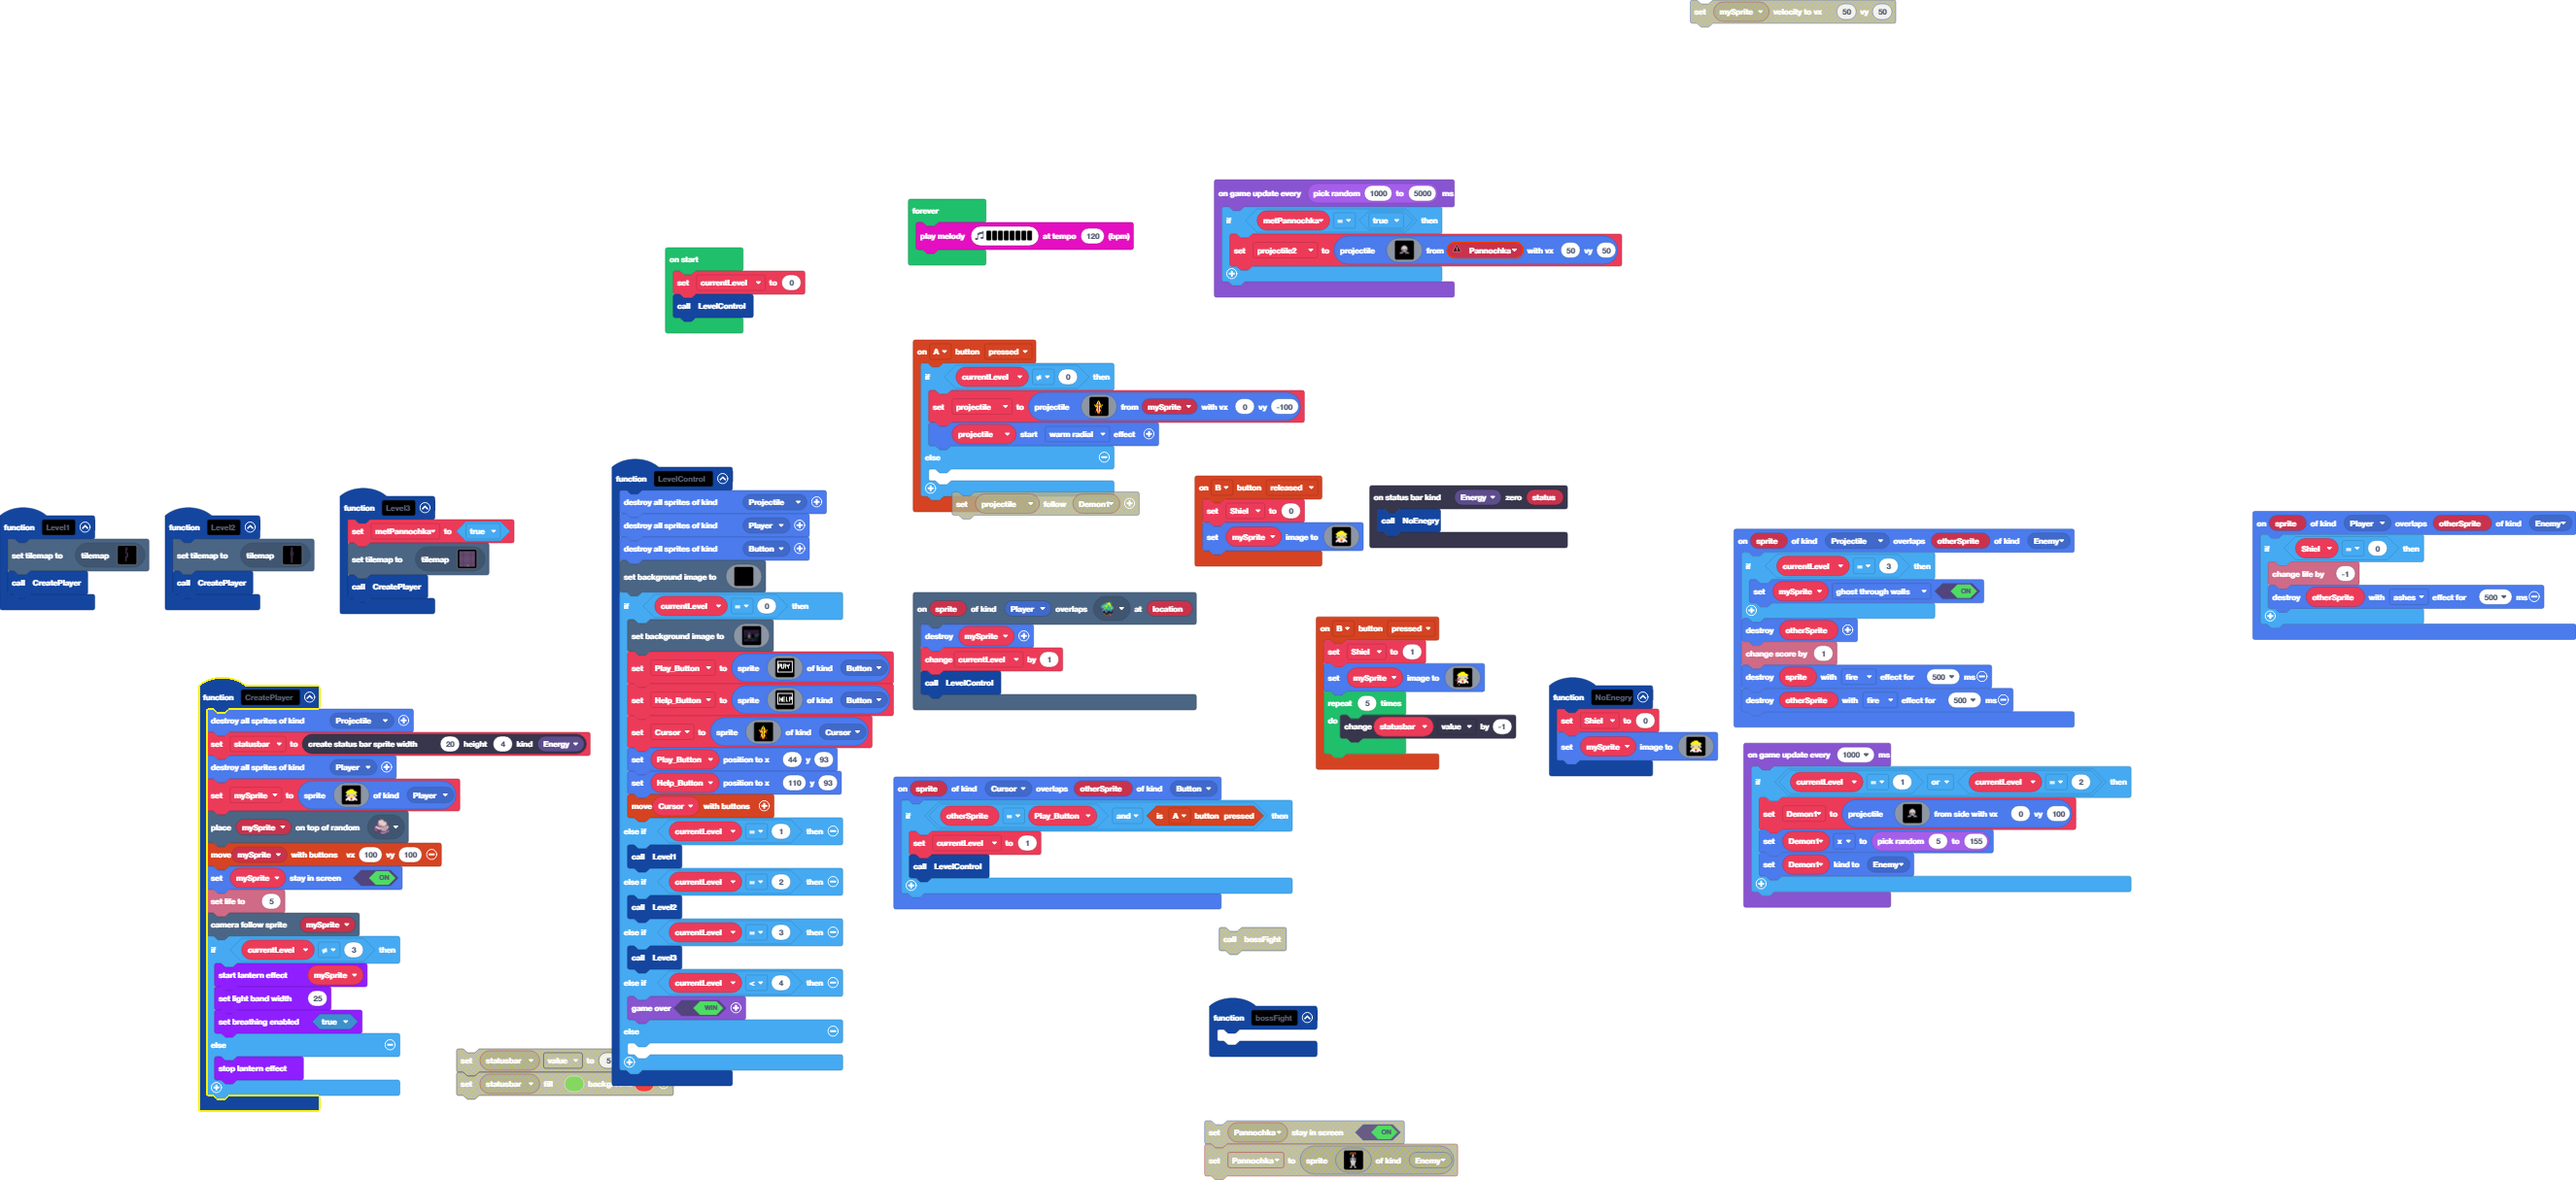
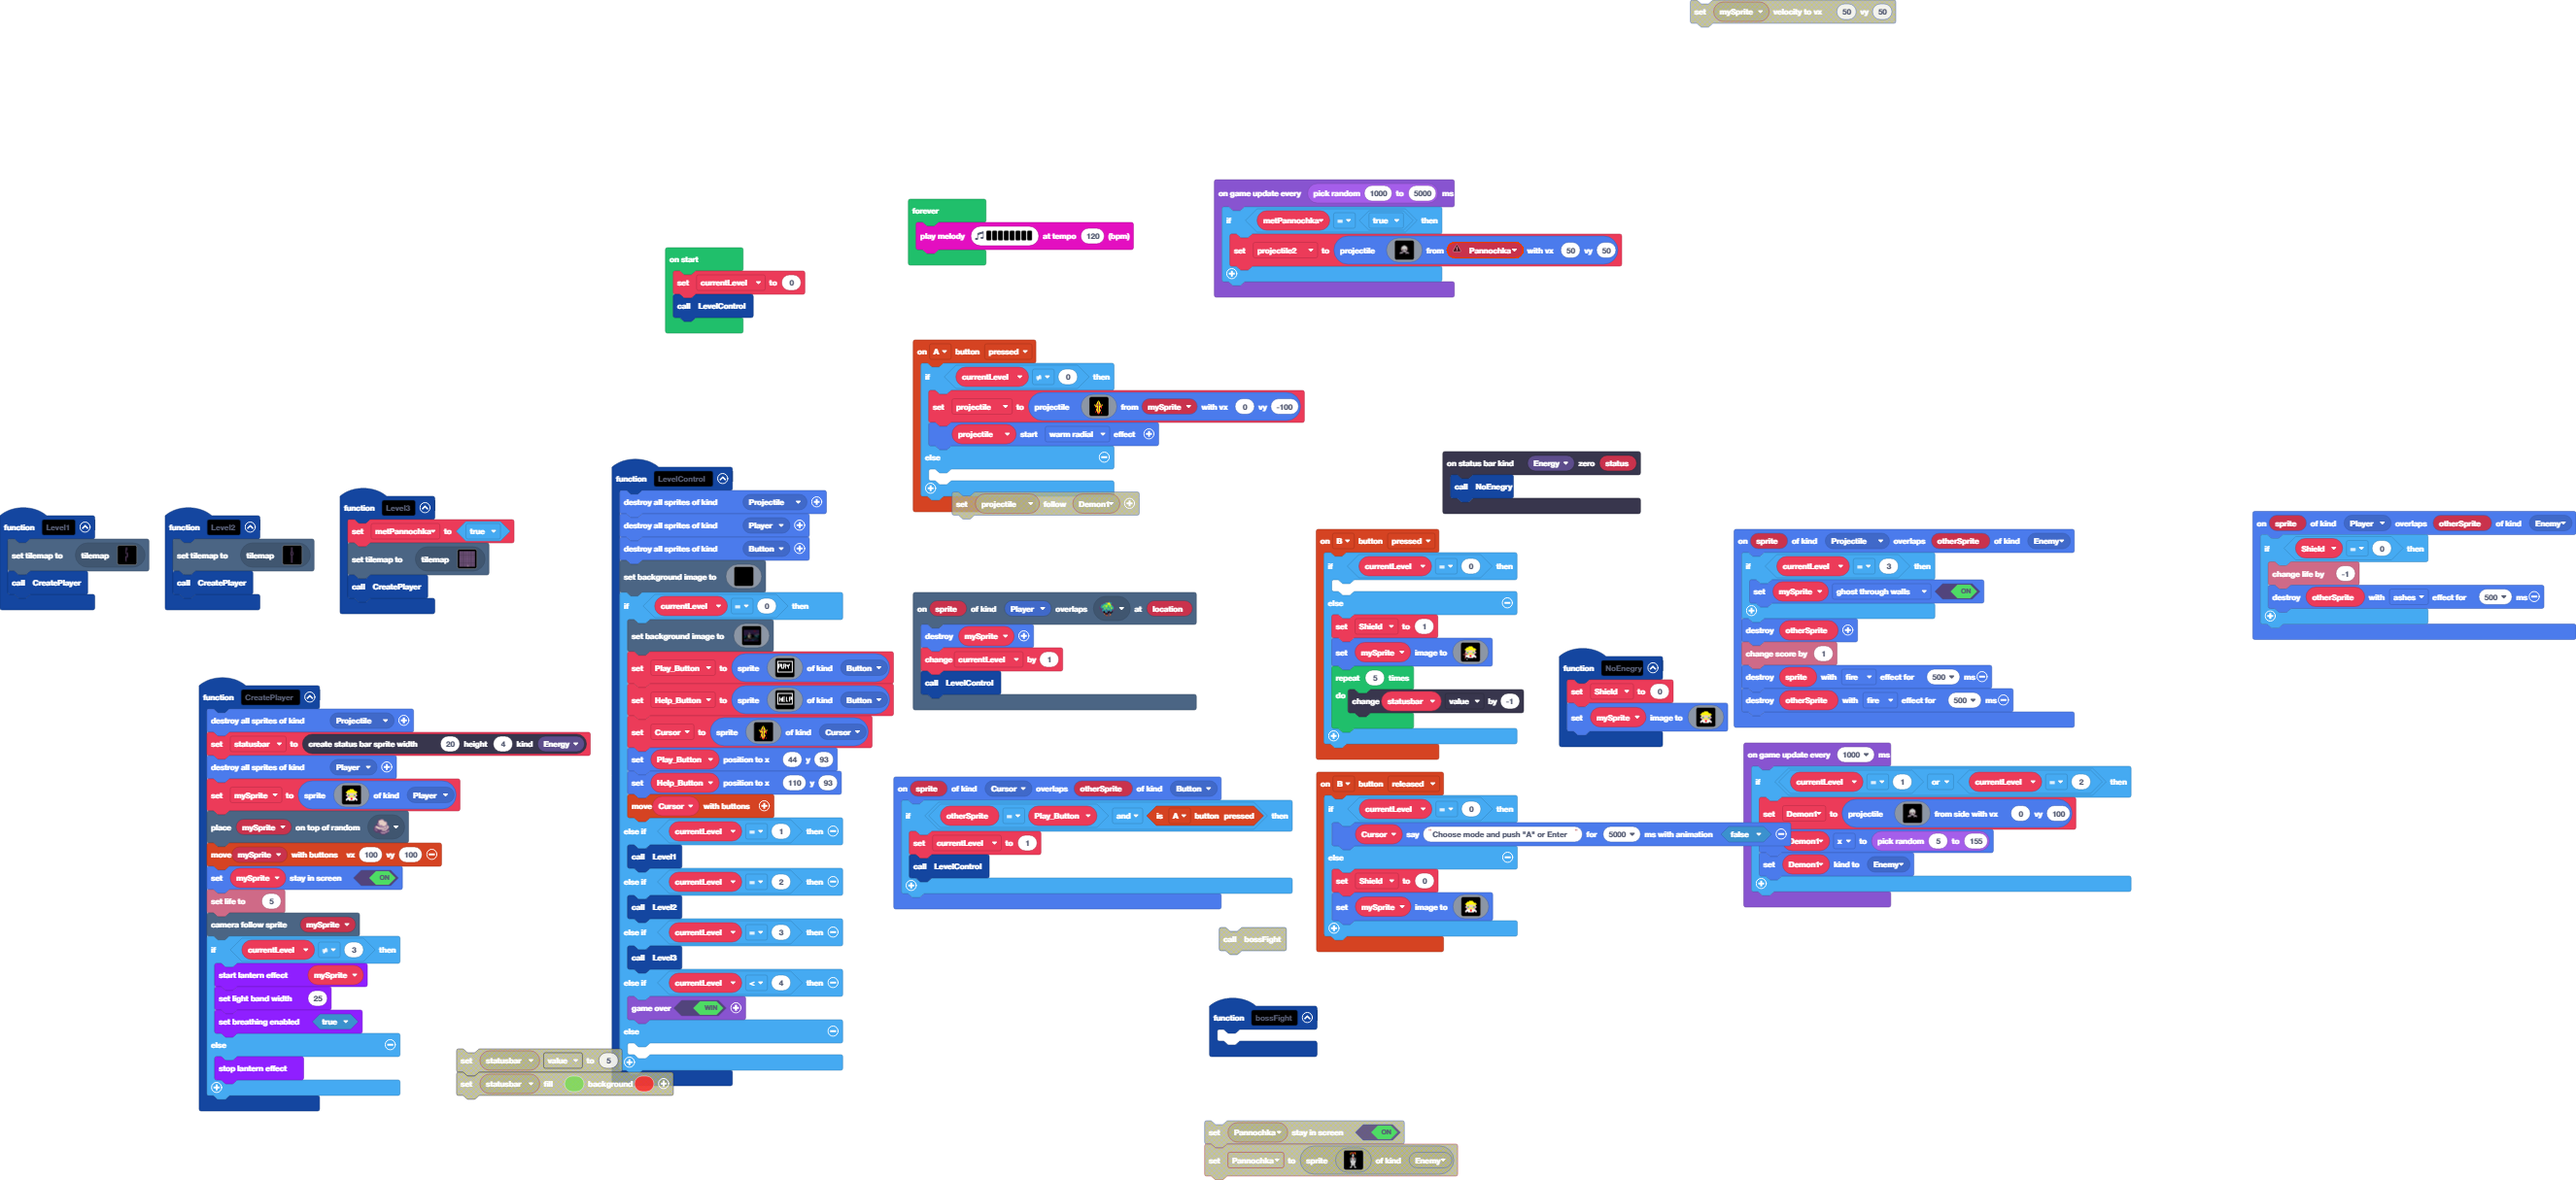
Update main.blocks, main.ts

diff --git a/main.ts b/main.ts
@@ -322,27 +322,31 @@ function LevelControl () {
     }
 }
 controller.B.onEvent(ControllerButtonEvent.Pressed, function () {
-    Shiel = 1
-    mySprite.setImage(img`
-        . . . . . . . . . . . . . . . . 
-        . . . . . . . . . . . . . . . . 
-        . . . . . . 5 5 5 5 . . . . . . 
-        . . . . 5 5 5 5 5 5 5 . . . . . 
-        . . . 5 5 5 5 5 5 5 5 5 5 . . . 
-        . . 5 5 5 5 5 5 5 5 5 5 5 5 . . 
-        . . . d d d d d d d d d d . . . 
-        . . . d 5 5 d d d d 5 5 d . . . 
-        . . e d 6 6 d d d d 6 6 d d . . 
-        . . e 3 3 d 5 5 5 5 d 3 3 . . . 
-        e e e e e 5 d d d d 5 d . . . . 
-        . . e 1 1 1 1 2 2 1 1 1 1 . . . 
-        . . e 1 1 1 1 2 2 1 1 1 1 1 . . 
-        . . e b . 1 1 1 1 1 1 . b d . . 
-        . . e . . f f f f f f . . . . . 
-        . . . . 1 f f . . f f . . . . . 
-        `)
-    for (let index = 0; index < 5; index++) {
-        statusbar.value += -1
+    if (currentLevel == 0) {
+    	
+    } else {
+        Shield = 1
+        mySprite.setImage(img`
+            . . . . . . . . . . . . . . . . 
+            . . . . . . . . . . . . . . . . 
+            . . . . . . 5 5 5 5 . . . . . . 
+            . . . . 5 5 5 5 5 5 5 . . . . . 
+            . . . 5 5 5 5 5 5 5 5 5 5 . . . 
+            . . 5 5 5 5 5 5 5 5 5 5 5 5 . . 
+            . . . d d d d d d d d d d . . . 
+            . . . d 5 5 d d d d 5 5 d . . . 
+            . . e d 6 6 d d d d 6 6 d d . . 
+            . . e 3 3 d 5 5 5 5 d 3 3 . . . 
+            e e e e e 5 d d d d 5 d . . . . 
+            . . e 1 1 1 1 2 2 1 1 1 1 . . . 
+            . . e 1 1 1 1 2 2 1 1 1 1 1 . . 
+            . . e b . 1 1 1 1 1 1 . b d . . 
+            . . e . . f f f f f f . . . . . 
+            . . . . 1 f f . . f f . . . . . 
+            `)
+        for (let index = 0; index < 5; index++) {
+            statusbar.value += -1
+        }
     }
 })
 function CreatePlayer () {
@@ -428,25 +432,29 @@ function Level1 () {
     CreatePlayer()
 }
 controller.B.onEvent(ControllerButtonEvent.Released, function () {
-    Shiel = 0
-    mySprite.setImage(img`
-        . . . . . . . . . . . . . . . . 
-        . . . . . . . . . . . . . . . . 
-        . . . . . . 5 5 5 5 . . . . . . 
-        . . . . 5 5 5 5 5 5 5 . . . . . 
-        . . . 5 5 5 5 5 5 5 5 5 5 . . . 
-        . . 5 5 5 5 5 5 5 5 5 5 5 5 . . 
-        . . . d d d d d d d d d d . . . 
-        . . . d 5 5 d d d d 5 5 d . . . 
-        . . d d 6 6 d d d d 6 6 d d . . 
-        . . . 3 3 d 5 5 5 5 d 3 3 . . . 
-        . . . . d 5 d d d d 5 d . . . . 
-        . . . 1 1 1 1 2 2 1 1 1 1 . . . 
-        . . 1 1 1 1 1 2 2 1 1 1 1 1 . . 
-        . . d b . 1 1 1 1 1 1 . b d . . 
-        . . . . . f f f f f f . . . . . 
-        . . . . . f f . . f f . . . . . 
-        `)
+    if (currentLevel == 0) {
+        Cursor.sayText("Choose mode and push \"A\" or Enter", 5000, false)
+    } else {
+        Shield = 0
+        mySprite.setImage(img`
+            . . . . . . . . . . . . . . . . 
+            . . . . . . . . . . . . . . . . 
+            . . . . . . 5 5 5 5 . . . . . . 
+            . . . . 5 5 5 5 5 5 5 . . . . . 
+            . . . 5 5 5 5 5 5 5 5 5 5 . . . 
+            . . 5 5 5 5 5 5 5 5 5 5 5 5 . . 
+            . . . d d d d d d d d d d . . . 
+            . . . d 5 5 d d d d 5 5 d . . . 
+            . . d d 6 6 d d d d 6 6 d d . . 
+            . . . 3 3 d 5 5 5 5 d 3 3 . . . 
+            . . . . d 5 d d d d 5 d . . . . 
+            . . . 1 1 1 1 2 2 1 1 1 1 . . . 
+            . . 1 1 1 1 1 2 2 1 1 1 1 1 . . 
+            . . d b . 1 1 1 1 1 1 . b d . . 
+            . . . . . f f f f f f . . . . . 
+            . . . . . f f . . f f . . . . . 
+            `)
+    }
 })
 scene.onOverlapTile(SpriteKind.Player, sprites.castle.saplingOak, function (sprite, location) {
     mySprite.destroy()
@@ -466,13 +474,13 @@ sprites.onOverlap(SpriteKind.Projectile, SpriteKind.Enemy, function (sprite, oth
     otherSprite.destroy(effects.fire, 500)
 })
 sprites.onOverlap(SpriteKind.Player, SpriteKind.Enemy, function (sprite, otherSprite) {
-    if (Shiel == 0) {
+    if (Shield == 0) {
         info.changeLifeBy(-1)
         otherSprite.destroy(effects.ashes, 500)
     }
 })
 function NoEnegry () {
-    Shiel = 0
+    Shield = 0
     mySprite.setImage(img`
         . . . . . . . . . . . . . . . . 
         . . . . . . . . . . . . . . . . 
@@ -498,7 +506,7 @@ let metPannochka = false
 let projectile: Sprite = null
 let statusbar: StatusBarSprite = null
 let mySprite: Sprite = null
-let Shiel = 0
+let Shield = 0
 let Cursor: Sprite = null
 let Help_Button: Sprite = null
 let Play_Button: Sprite = null
